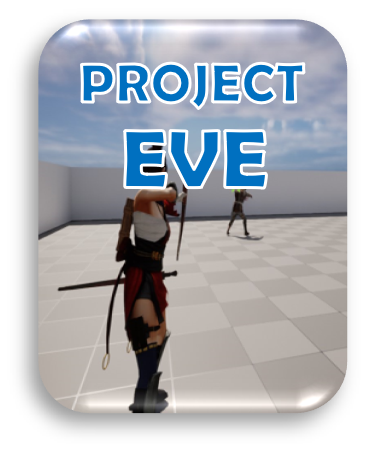
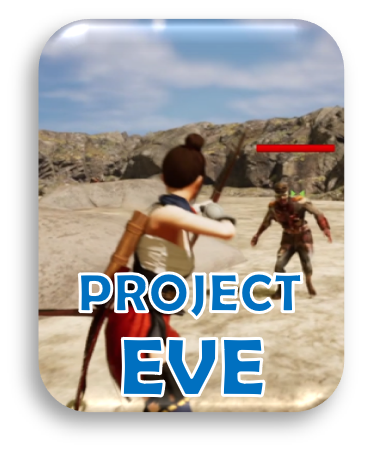
Tank Project added
+Tank project has been added
+Eve project image has been changed

diff --git a/index.html b/index.html
@@ -119,13 +119,20 @@
 					<section>
 						<!-- The filterable elements. Note that some have multiple class names (this can be used if they belong to multiple categories) -->
 						<div class="container">
-								<!-- TwoSouls -->
+							<!-- TwoSouls -->
 							<div class="filterDiv cunity; university">
 								<a class="image" id="TwoSoulsBtn">
 									<img src="images/TwoSouls_img.png" alt="" data-position="center center"  />
 									<img src="images/TwoSoulsOverlay_img.png" alt="" data-position="center center" id="TwoSoulsOverlayImg" class="imageOverlay"/>
 								</a>
 							</div>
+							<!-- TankWarfair -->
+								<div class="filterDiv un5; university">
+									<a class="image" id="TankWarfairBtn">
+										<img src="images/TankWarfair_img.png" alt="" data-position="center center"  />
+										<img src="images/TankWarfairOverlay_img.png" alt="" data-position="center center" id="TankWarfairOverlayImg" class="imageOverlay"/>
+									</a>
+								</div>
 							<!-- SuperFox -->
 							<div class="filterDiv cunity; personal">
 								<a class="image" id="SuperFoxBtn">
@@ -204,7 +211,39 @@
 												I also worked on learning about data management and improving my animation skills by creating unique attack animations with Bow and Sword.
 												I also created an inventory system that include buying and selling item to a vendor, as well as picking and drop item from the inventory.</p> <br />
 										<ul class="actions">
-											<li><a href="https://youtu.be/lazDE29a3fE" target="_blank" class="button">Watch Gameplay</a></li>
+											<li><a href="https://youtu.be/343cD_zRERg" target="_blank" class="button">Watch Gameplay</a></li>
+										</ul>
+									</div>
+								</div>
+							</div>
+						</div>
+					</section>
+
+					<section>
+						<!-- TANK WARFAIR-->
+							<div id="TankWarfairPopup" class="Popup">
+							<!-- Popup content -->
+							<div class="Popup-content">
+								<span class="close" class="button" id="TankWarfairClose">&times;</span>
+								<div class="content">
+									<div class="inner">
+										<h1 style ="font-family:Berlin Sans FB Demi">Tank WarFair</h1>
+										<div class="project-info">
+										<h4 style ="font-family:Poppins"> Project: </h4>
+										<p> Blueprint, UE5, Independent<p>
+										</div>
+										<h4 style ="font-family:Poppins">Features Learned: </h4>
+										<ul>
+											<li>Tank</li>
+											<li>Tank</li>
+										</ul>
+											<p>(Work In Progress). </br>
+											This project was about making any prototype, I chose to make recreate world of tanks features as I have never worked on vheicles before.
+											The features I have planned to implements are, Advance tank, camera zoom in and out, Aiming with accuracy going up and down when stopping or moving,
+											Damage penetration system, and Tank parts damage causing Performance issue. </p>
+											<p>Currently I have implemented everything beside from penetration system, I also still need to polish the project as the features needs some improvement.</p> <br />
+										<ul class="actions">
+											<li><a href="https://youtu.be/2clZIXkMHko" target="_blank" class="button">Watch Gameplay</a></li>
 										</ul>
 									</div>
 								</div>

diff --git a/assets/js/main.js b/assets/js/main.js
@@ -268,7 +268,7 @@ function togglePopup(PopupId, btnId, closeId){
 }
 
 // Store all Popup IDs in an array
-var PopupIds = ["ProjectEve", "Mario", "TwoSouls", "SuperFox", "LightsAndShadows", "DirectX", "SeasonScape", "MLD"];
+var PopupIds = ["ProjectEve", "Mario", "TwoSouls", "SuperFox", "LightsAndShadows", "DirectX", "SeasonScape", "MLD", "TankWarfair"];
 
 // Call the function for each Popup
 PopupIds.forEach(function(PopupId) {
@@ -316,3 +316,4 @@ showOverlayImage('SeasonScapeBtn', 'SeasonScapeOverlayImg');
 showOverlayImage('SuperFoxBtn', 'SuperFoxOverlayImg');
 showOverlayImage('DirectXBtn', 'DirectXOverlayImg');
 showOverlayImage('MLDBtn', 'MLDOverlayImg');
+showOverlayImage('TankWarfairBtn', 'TankWarfairOverlayImg');
